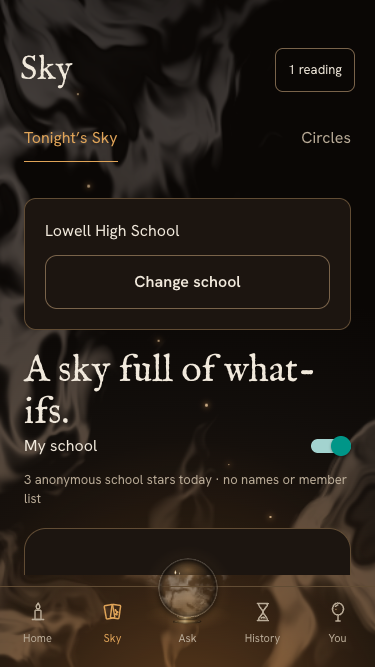
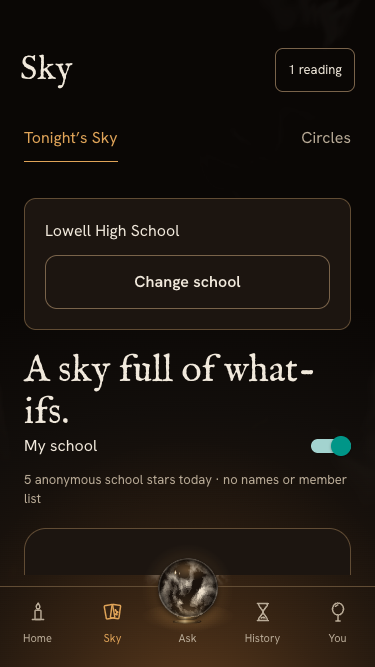
fix: keep social available when school data fails and reuse empty school circle on retry
Greptile P1: schools/suggestions request failures no longer take Sky and
Circles offline. Greptile P2: Start a school circle reuses the viewer's own
empty circle, and actions refresh after failure so partial work is visible.

diff --git a/src/SocialScreen.tsx b/src/SocialScreen.tsx
@@ -44,7 +44,7 @@ export function Social({onAsk,onPlus,invite,onInviteHandled,seal,reduce}:{onAsk:
  },[version,profile.plus,profile.ageBand,profile.sunSign,schoolOnly]);
  async function act(operation:()=>Promise<unknown>,message=''){
   if(busy)return;setBusy(true);setNotice('');
-  try{await operation();setVersion(v=>v+1);setNotice(message)}catch(error){setNotice(error instanceof Error?error.message:'The sky could not be reached. Try again.')}finally{setBusy(false)}
+  try{await operation();setNotice(message)}catch(error){setNotice(error instanceof Error?error.message:'The sky could not be reached. Try again.')}finally{setBusy(false);setVersion(v=>v+1)}
  }
  const stars=data?.schoolOnly===schoolOnly?data.stars:[],themeStars=stars.filter(star=>star.theme===selected),ownStar=data?.ownStar;
  const templates=Object.entries(skyPrompts) as [SkyPrompt,(typeof skyPrompts)[SkyPrompt]][];
@@ -77,7 +77,7 @@ export function Social({onAsk,onPlus,invite,onInviteHandled,seal,reduce}:{onAsk:
     {!data.schoolSuggestions.length?<Txt style={styles.caption}>No invited school friends yet. Use a private invitation with someone you already know.</Txt>:null}
     {data.schoolSuggestions.filter((suggestion,index,all)=>all.findIndex(s=>s.user_id===suggestion.user_id)===index).map(suggestion=>{
      const circleIndex=data.circles.findIndex(c=>c.id===suggestion.circle_id),friendIndex=data.members.filter(m=>m.circle_id===suggestion.circle_id).findIndex(m=>m.user_id===suggestion.user_id);
-     return <View key={suggestion.user_id}><Txt style={styles.caption}>Friend {friendIndex+1} in Circle {circleIndex+1} chose your school.</Txt><Action label={`Start a school circle · Friend ${friendIndex+1} in Circle ${circleIndex+1}`} quiet disabled={busy} onPress={()=>void act(async()=>{const circle=await createCircle();const token=await inviteToCircle(circle);setLink(Linking.createURL('/',{queryParams:{circle:token}}))},'Share this private invitation with your school friend. They choose whether to join.')}/></View>;
+     return <View key={suggestion.user_id}><Txt style={styles.caption}>Friend {friendIndex+1} in Circle {circleIndex+1} chose your school.</Txt><Action label={`Start a school circle · Friend ${friendIndex+1} in Circle ${circleIndex+1}`} quiet disabled={busy} onPress={()=>void act(async()=>{const empty=data.circles.find(c=>c.owner_id===data.owner&&data.members.every(m=>m.circle_id!==c.id||m.user_id===data.owner));const token=await inviteToCircle(empty?.id??await createCircle());setLink(Linking.createURL('/',{queryParams:{circle:token}}))},'Share this private invitation with your school friend. They choose whether to join.')}/></View>;
     })}
    </View>:null}
    {joining&&invite?<View style={styles.panel}><Txt>A place in someone’s circle</Txt><Txt style={styles.caption}>Joining shares your future consultation days, themes and sun sign with up to 20 members. Leave whenever you like.</Txt><Action label="Join this circle" disabled={busy} onPress={()=>void act(async()=>{await joinCircle(invite);setJoining(false);onInviteHandled()},'You joined the circle.')}/><Action label="Decline invitation" quiet onPress={()=>{setJoining(false);onInviteHandled()}}/></View>:null}

diff --git a/tests/social-recovery.test.ts b/tests/social-recovery.test.ts
@@ -19,6 +19,7 @@ test('social recovery retries current profile before exposing a snapshot',async 
  t.mock.method(supabase.auth,'getSession',async()=>({data:{session:{access_token:'test-token',user:{id:'viewer'}}},error:null}));
  const {loadSocial,syncSocialProfile}=await import('../src/social');
  let offline=true,reads=0;
+ let failSchool=false;
  const writes:unknown[]=[];
  t.mock.method(globalThis,'fetch',async(input:unknown,init?:RequestInit)=>{
   if(String(input).endsWith('/social')){
@@ -28,6 +29,7 @@ test('social recovery retries current profile before exposing a snapshot',async 
   }
   assert.ok(writes.length>0,'snapshot reads must follow successful profile synchronization');
   reads++;
+  if(failSchool&&/\/(schools|rpc\/school_circle_suggestions)\b/.test(String(input)))return Response.json({message:'unavailable'},{status:500});
   return Response.json([]);
  });
  const plus={plus:true,ageBand:'adult' as const,sunSign:'leo'};
@@ -42,4 +44,7 @@ test('social recovery retries current profile before exposing a snapshot',async 
  await loadSocial(unknown);
  assert.deepEqual(writes,[{action:'profile',...plus},{action:'profile',...unknown}]);
  assert.equal(reads,20);
+ failSchool=true;
+ const partial=await loadSocial(plus);
+ assert.deepEqual([partial.owner,partial.schools,partial.schoolSuggestions],['viewer',[],[]]);
 });

diff --git a/src/social.ts b/src/social.ts
@@ -45,7 +45,8 @@ export async function loadSocial(account:SocialProfile,schoolOnly=false):Promise
   db.from('social_profiles').select('age_band,friends_can_ask,school_id'),db.from('friend_notices').select('id').eq('seen',false),
   db.from('schools').select('id,name,city,latitude,longitude'),db.rpc('school_circle_suggestions'),
  ]);
- for(const result of [sky,own,circles,members,reactions,seals,profile,notices,schools,suggestions])if(result.error)throw new Error(socialUnavailable);
+ // School data is optional: its failure leaves Sky and Circles working with an empty catalog.
+ for(const result of [sky,own,circles,members,reactions,seals,profile,notices])if(result.error)throw new Error(socialUnavailable);
  const stars:SkyStar[]=[];
  for(const row of sky.data??[]){
   if(isSkyPrompt(row.theme)&&safeSealedHeadline(row.wording)&&typeof row.id==='string'&&Number.isFinite(row.resonances))
